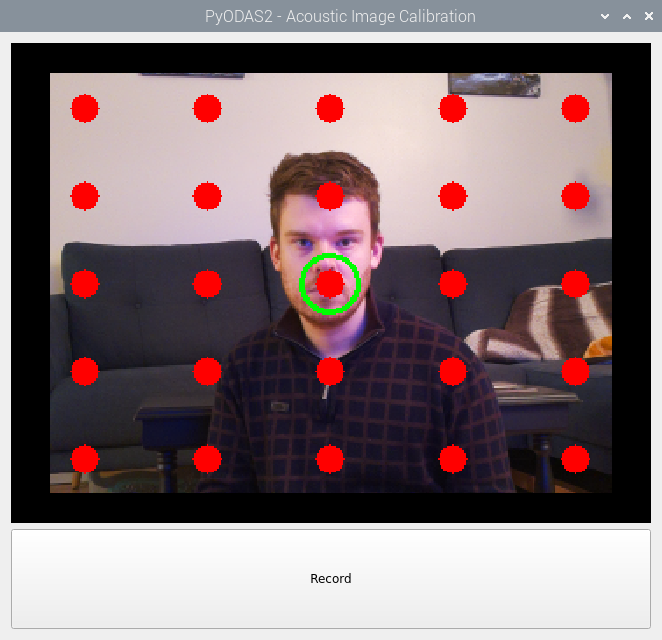
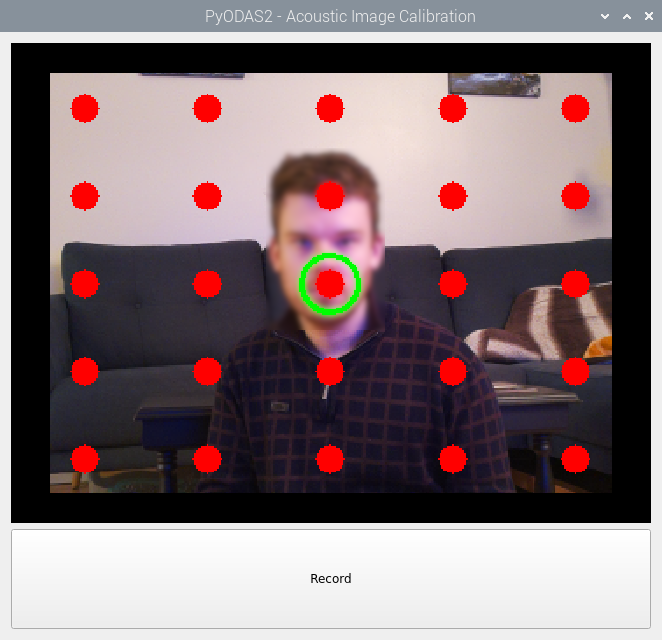
Improve docs.

Changed region(s): [[0.3927, 0.2188, 0.6042, 0.5312]]

diff --git a/docs/index.rst b/docs/index.rst
@@ -82,7 +82,7 @@ map sound intensity or direction onto a visual display, similar to how cameras c
 This technology is often used in fields like acoustics, robotics, surveillance, and industrial diagnostics to understand
 and analyze the spatial properties of sound in real-world environments.
 
-TODO image or video
+.. image:: _static/tutorials/live/acoustic_image.png
 
 
 Getting Started
